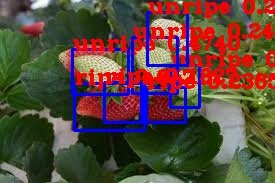
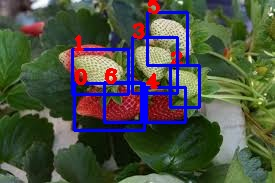
Solved some errors

Changed region(s): [[0.2618, 0.1093, 1.0, 0.5191], [0.5236, 0.0, 0.8436, 0.1093], [0.8727, 0.0, 1.0, 0.082]]

diff --git a/API.py b/API.py
@@ -122,7 +122,7 @@ def get_detections():
             elif int(classes[0][i] == 0) and float("{0:.2f}".format(np.array(scores[0][i])*100)) < 50.0:
                 _score = pxx.uniform(0.6, 0.93)
             else:
-                _score = float("{0:.2f}".format(np.array(scores[0][i])*100))
+                _score = float("{0:.2f}".format(np.array(scores[0][i])))
 
             wh = np.flip(raw_img.shape[0:2])
             print("Detection label")
@@ -181,7 +181,7 @@ def get_image():
                                         np.array(scores[0][i]),
                                         np.array(boxes[0][i])))
     img = cv2.cvtColor(img_raw.numpy(), cv2.COLOR_RGB2BGR)
-    img = draw_outputs(img, (boxes, scores, classes, nums), class_names)
+    img, _ = draw_outputs(img, (boxes, scores, classes, nums), class_names)
     cv2.imwrite(output_path + 'detection.jpg', img)
     print('output saved to: {}'.format(output_path + 'detection.jpg'))
     # upload(output_path + 'detection.jpg', public_id="image", overwrite=True)
@@ -206,4 +206,4 @@ def get_image():
 
 
 if __name__ == '__main__':
-    app.run(debug = True)
+    app.run()
